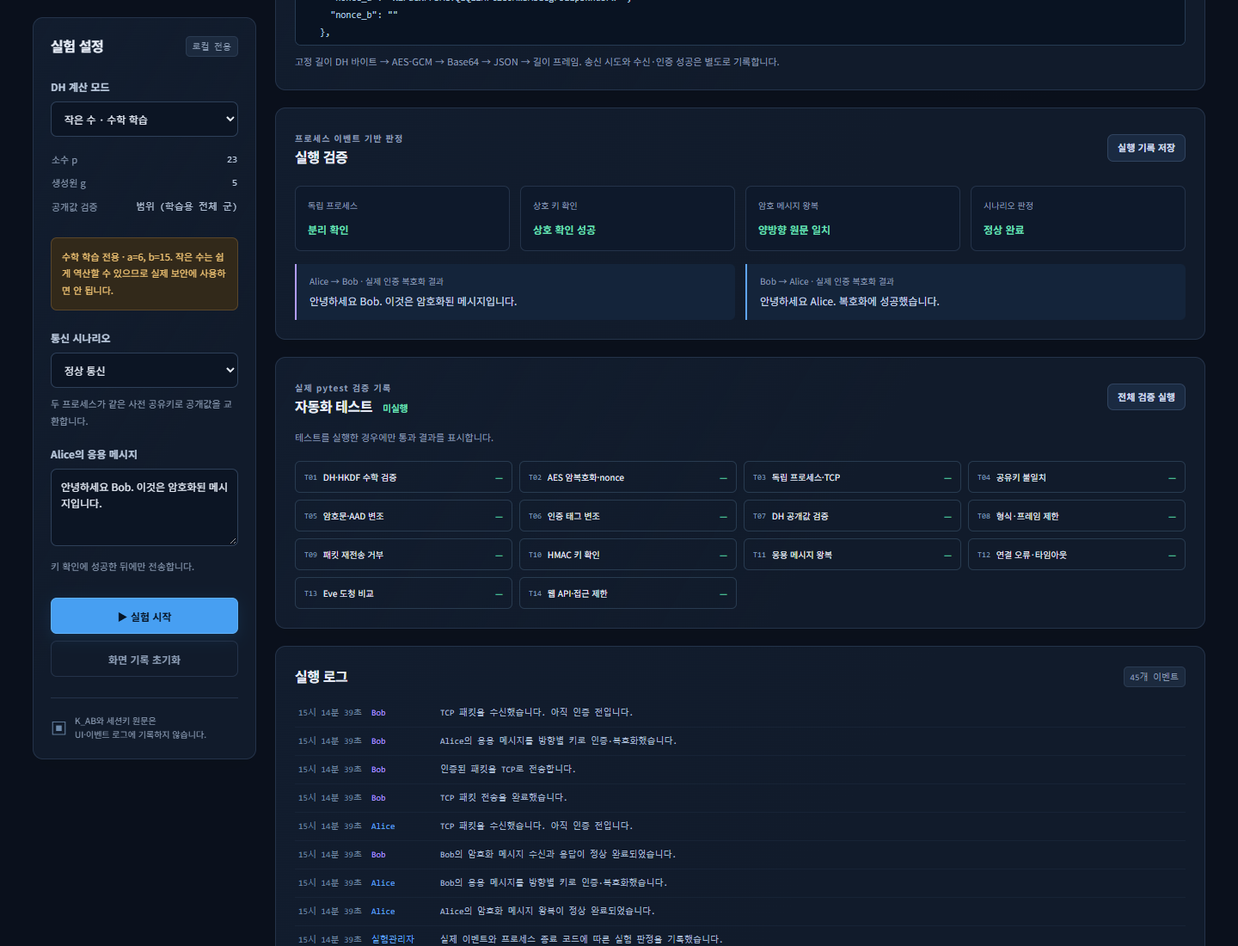
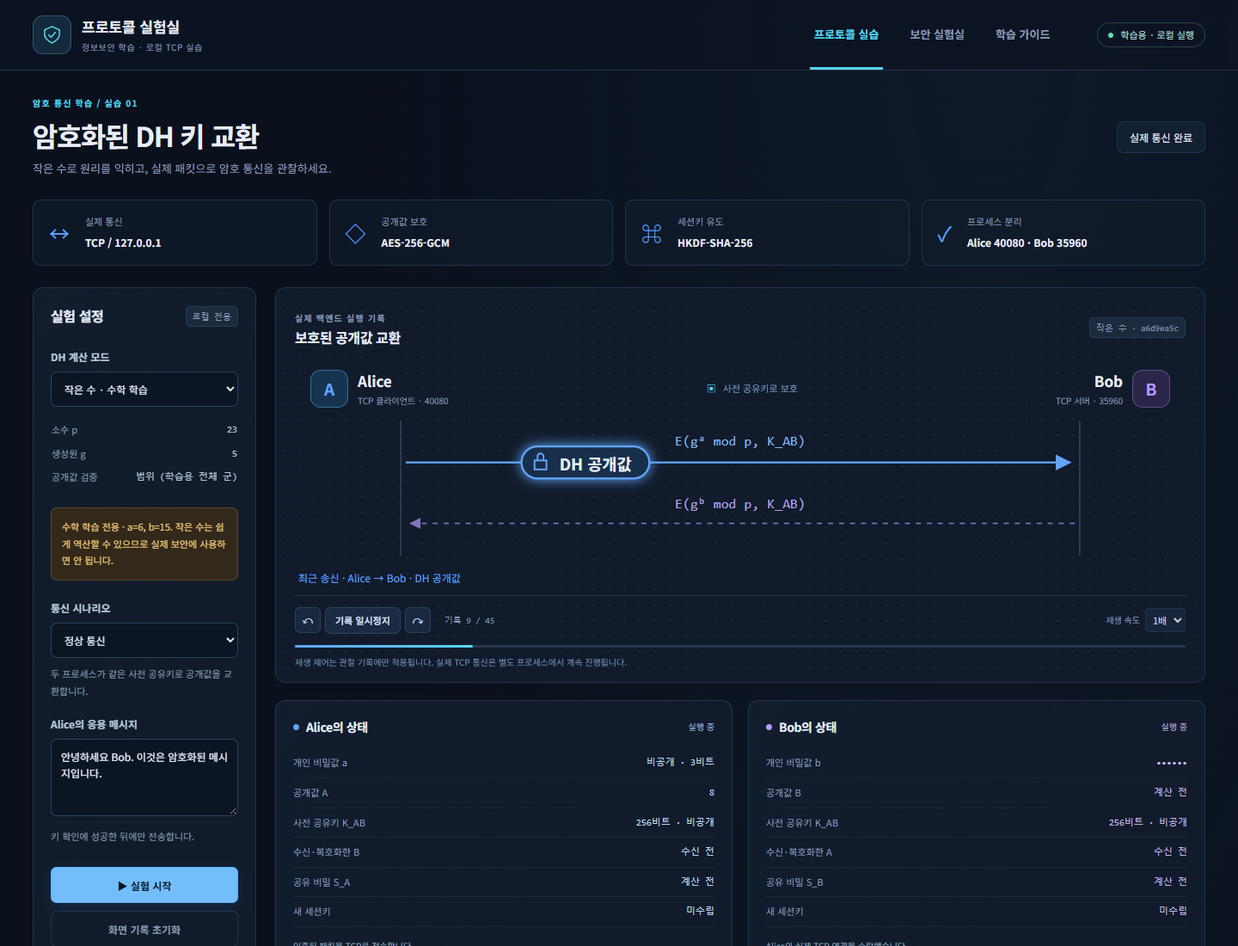
Improve packet replay animation and refresh previews

diff --git a/web/style.css b/web/style.css
@@ -1,7 +1,17 @@
 :root{color-scheme:dark;--bg:#0a101c;--panel:#111b2b;--panel2:#142034;--line:#24334a;--text:#e7edf7;--muted:#8c9db5;--cyan:#59d5ec;--blue:#60a5fa;--violet:#b29bff;--green:#68ddb1;--amber:#f6c875;--red:#ff8b9a;--mono:Consolas,'Cascadia Code',monospace}
-*{box-sizing:border-box}body{margin:0;background:radial-gradient(ellipse at 80% 0,#15263b66,transparent 45%),var(--bg);color:var(--text);font-family:Inter,'Pretendard','Noto Sans KR','Malgun Gothic',system-ui,sans-serif;font-size:14px;line-height:1.6}button,input,select,textarea{font:inherit}button,a,select{touch-action:manipulation}button{cursor:pointer}button:disabled{opacity:.45;cursor:wait}button:focus-visible,a:focus-visible,select:focus-visible,textarea:focus-visible{outline:2px solid var(--cyan);outline-offset:4px}a{color:var(--cyan);text-decoration:none}h1,h2,h3,p{margin:0}h2{font-size:16px;letter-spacing:-.4px}h3{font-size:18px;letter-spacing:-.5px}small{font-size:11px}svg{display:block}.hidden{display:none!important}.site-header{min-height:82px;padding:0 38px;display:flex;align-items:center;gap:28px;border-bottom:1px solid var(--line);background:#0b1322cc}.brand{display:flex;align-items:center;gap:12px;line-height:1.35;font-weight:700;color:var(--text);font-size:17px;white-space:nowrap}.brand small{display:block;margin-top:5px;color:var(--muted);font-weight:400;font-size:10px;letter-spacing:.6px}.brand-icon{padding:10px;border:1px solid #2f5771;border-radius:12px;background:#122a3c}.brand-icon svg{width:23px;fill:none;stroke:var(--cyan);stroke-width:1.6;stroke-linecap:round;stroke-linejoin:round}.tabs{display:flex;align-self:stretch;gap:26px;margin-left:auto}.tab{position:relative;background:none;border:0;color:var(--muted);font-weight:600;padding:0 5px;font-size:13px}.tab.active{color:var(--cyan)}.tab.active:after{content:'';position:absolute;bottom:0;height:3px;background:var(--cyan);left:0;right:0}.local-badge{display:flex;gap:8px;align-items:center;margin-left:22px;border:1px solid #29443d;color:#a5d8c5;border-radius:20px;padding:5px 12px;font-size:11px;white-space:nowrap}.dot{width:6px;height:6px;display:inline-block;border-radius:50%;background:var(--green);box-shadow:0 0 8px #68ddb133}.page{max-width:1640px;margin:auto;padding:30px 38px 0}.page-heading{display:flex;justify-content:space-between;align-items:center;gap:20px;margin-bottom:25px}.eyebrow{color:var(--muted);font-size:10px;letter-spacing:1.2px;font-weight:600}.page-heading .eyebrow{color:var(--cyan);margin-bottom:7px}h1{font-size:clamp(23px,2.2vw,32px);letter-spacing:-1.2px;font-weight:700;line-height:1.4}.page-heading p{color:var(--muted);margin-top:7px;font-size:13px}.execution-badge{padding:8px 14px;border:1px solid var(--line);border-radius:8px;font-size:12px;white-space:nowrap;background:#122032}.execution-badge .dot{margin-right:8px}.execution-badge.error{color:var(--red)}.facts{display:grid;grid-template-columns:repeat(4,1fr);gap:14px;margin-bottom:25px}.facts>div{display:flex;align-items:center;gap:13px;padding:16px 18px;background:#111c2b99;border:1px solid var(--line);border-radius:10px}.facts small{display:block;color:var(--muted);margin-bottom:3px}.facts strong{font-size:12px;font-weight:600}.fact-icon{color:var(--blue);font-size:24px;line-height:1;padding-right:5px}.lab-layout{display:grid;grid-template-columns:260px minmax(0,1fr);gap:22px;align-items:start}.panel{border:1px solid var(--line);border-radius:12px;background:linear-gradient(120deg,#13203455,transparent 60%),var(--panel);padding:22px;min-width:0;box-shadow:0 10px 30px #0000000a}.panel-title{display:flex;justify-content:space-between;align-items:center;gap:10px;margin-bottom:20px}.panel-title>div .eyebrow{margin-bottom:4px}.small-tag{font:10px var(--mono);color:var(--muted);background:#1c2a3e;border:1px solid #2a3b52;padding:4px 7px;border-radius:5px;white-space:nowrap}.settings{position:sticky;top:20px;padding:20px}.settings .panel-title{margin-bottom:24px}.settings label{display:block;font-size:12px;font-weight:600;color:#b9c8dc;margin-bottom:8px}.settings select,.settings textarea{width:100%;background:#0c1524;border:1px solid #2e4059;border-radius:7px;padding:10px 11px;color:var(--text);font-size:12px;line-height:1.6}.settings select{padding-right:20px}.settings textarea{resize:vertical;min-height:90px}.parameters{padding:13px 1px 7px}.parameters>div{display:flex;justify-content:space-between;gap:8px;font-size:11px;padding:5px 0}.parameters span{color:var(--muted)}.parameters strong{font-weight:500;font-family:var(--mono);color:#b4c3d8}.notice{font-size:11px;line-height:1.8;color:#a9c5de;background:#10283a;border:1px solid #25465d;border-radius:7px;padding:12px;margin:14px 0 22px}.notice.warning{color:var(--amber);background:#32291a;border-color:#5a4629}.notice.error{color:var(--red);background:#321d2a;border-color:#643546}.input-help{color:var(--muted);font-size:11px;line-height:1.8;margin-top:9px;margin-bottom:18px}.button{display:inline-flex;justify-content:center;align-items:center;gap:7px;border:1px solid #30435f;border-radius:7px;color:#cedaec;background:#1a2a41;padding:10px 15px;font-weight:600;font-size:12px;transition:background .18s,transform .18s}.button:hover:not(:disabled){background:#253b56}.button.primary{background:#479ff2;border-color:#5fb1f8;color:#061425;box-shadow:0 4px 18px #2296ec23}.button.primary:hover:not(:disabled){background:#73bdfb;transform:translateY(-1px)}.settings .button{width:100%;margin-top:8px;min-height:42px}.button.subtle{background:transparent;color:var(--muted);border-color:var(--line)}.button.compact{font-size:11px;padding:6px 11px;min-height:30px}.settings-footer{display:flex;align-items:center;gap:9px;color:var(--muted);border-top:1px solid var(--line);margin-top:24px;padding-top:18px;font-size:10px}.mini-lock{font-size:19px;color:#6d8aab}.workspace{min-width:0}.workspace>.panel,.tab-content>.panel{margin-bottom:20px}.network-panel{padding-bottom:15px;background-image:radial-gradient(#24354d66 1px,transparent 1px);background-size:18px 18px}.network-panel .panel-title{margin-bottom:24px}.network-endpoints{display:flex;align-items:center;justify-content:space-between;gap:12px;padding:0 18px}.endpoint{display:flex;align-items:center;gap:11px}.avatar{display:flex;justify-content:center;align-items:center;width:44px;height:44px;border-radius:12px;border:1px solid #386b96;background:#163450;color:var(--blue);font-weight:700;font-size:19px}.bob .avatar{color:var(--violet);background:#2b2649;border-color:#594b85}.endpoint strong{display:block;font-size:17px}.endpoint small{display:block;color:var(--muted);font-size:10px;margin-top:2px}.endpoint.bob{text-align:right}.network-security{font-size:11px;color:#7f9bb8}.network-security span{margin-right:5px;color:var(--cyan)}.network-svg{width:100%;height:auto;max-height:180px;overflow:visible;margin-top:8px}.route{stroke-width:1.4;stroke-dasharray:5 6;fill:none;opacity:.7}.route-a{stroke:var(--blue)}.route-b{stroke:var(--violet)}.network-spine{stroke:#39506c;stroke-width:1;fill:none}.arrow-a{fill:var(--blue)}.arrow-b{fill:var(--violet)}.formula{font-family:var(--mono);font-size:14px}.formula-a{fill:#87b8f3}.formula-b{fill:#b4a6eb}#packet-animation rect{fill:#153c59;stroke:var(--cyan);stroke-width:1.3;filter:drop-shadow(0 0 5px #32b6ef55)}#packet-animation path{stroke:var(--cyan);stroke-width:1.3;fill:none}.eve-strip{display:flex;gap:10px;align-items:center;color:var(--amber);font-size:11px;border:1px solid #655032;border-radius:6px;background:#30291d;padding:9px 12px;margin:5px 0 15px}.eve-strip span{color:#cbb18b;margin-left:auto}.playback{display:flex;align-items:center;gap:16px;border-top:1px solid var(--line);padding-top:13px;margin-top:7px}.playback-buttons{display:flex;gap:5px}.icon-button{width:30px;height:30px;background:#19283e;border:1px solid #2f4058;border-radius:6px;color:#bdcbe0;font-size:17px}.playback>span{font:10px var(--mono);color:var(--muted)}.speed-label{margin-left:auto;font-size:10px;color:var(--muted);display:flex;gap:6px;align-items:center}.speed-label select{border:1px solid var(--line);background:#17243a;color:#c7d4e7;border-radius:4px;font-size:11px;padding:4px}progress{appearance:none;width:100%;height:3px;border:0;display:block;margin-top:13px;border-radius:5px;background:#26364d}progress::-webkit-progress-bar{background:#26364d;border-radius:5px}progress::-webkit-progress-value{background:linear-gradient(90deg,var(--blue),var(--cyan));border-radius:5px}progress::-moz-progress-bar{background:var(--cyan)}.playback-note{margin-top:9px;font-size:10px;color:#7a8ea8}.peer-grid{display:grid;grid-template-columns:1fr 1fr;gap:18px}.peer{padding:19px 20px}.peer h2{display:flex;align-items:center;gap:8px;font-size:14px}.peer-dot{width:7px;height:7px;border-radius:50%;background:var(--blue)}.bob .peer-dot{background:var(--violet)}.peer .panel-title{margin-bottom:14px}.peer-status{font-size:10px;color:#9ab7d9}.bob .peer-status{color:#b4a8db}.peer dl{margin:0;font-size:11px}.peer dl>div{display:grid;grid-template-columns:125px minmax(0,1fr);gap:8px;padding:8px 0;border-bottom:1px solid #23314877}.peer dt{color:var(--muted)}.peer dd{margin:0;font-family:var(--mono);text-align:right;overflow:hidden;text-overflow:ellipsis;white-space:nowrap;color:#bfd9f7}.bob dd{color:#c3b8ec}.peer-operation{margin-top:14px;font-size:10px;color:#91a5be;min-height:32px}.disclosure-row{display:flex;gap:10px;justify-content:space-between;padding:9px 1px 20px;font-size:10px;color:var(--muted)}.text-button{border:0;background:none;color:var(--cyan);font-size:10px;padding:0}.stages{display:grid;grid-template-columns:repeat(6,1fr);gap:7px;margin-bottom:20px}.stage-button{border:1px solid #2c3e56;background:#152237;border-radius:7px;color:#8fa3be;font-size:10px;padding:9px 4px;line-height:1.5}.stage-button span{display:block;margin-bottom:3px;font:10px var(--mono);color:#6e8aa9}.stage-button.active{background:#19314b;border-color:#458fc3;color:var(--cyan)}.stage-button.done span{color:var(--green)}.explanation{display:grid;grid-template-columns:1fr 1fr;gap:25px;align-items:center}.explanation h3{font-size:16px;margin:6px 0 8px}.explanation p{font-size:11px;color:#a6b6ca}.explanation .security-note{font-size:10px;margin-top:9px;color:#7f9bb8}.formula-box{display:flex;flex-direction:column;gap:12px;background:#0b1525;border:1px solid #273b55;border-radius:8px;padding:22px}.formula-box code{color:#7bcdf9;font-size:15px;line-height:1.6;overflow-wrap:anywhere;font-family:var(--mono)}.formula-box span{color:var(--muted);font-size:10px;word-break:break-word}.packet-panel .panel-title>div{display:flex;align-items:center;gap:8px}.packet-list{display:flex;gap:7px;flex-wrap:wrap;margin-bottom:12px}.packet-chip{background:#19283d;border:1px solid #2f4058;color:#a6bad3;border-radius:5px;font-size:10px;padding:5px 9px}.packet-chip.active{border-color:#519fcc;color:var(--cyan)}pre{font:11px/1.8 var(--mono);margin:0;padding:16px;border:1px solid #263b53;border-radius:7px;background:#091322;color:#a7c5df;overflow:auto;max-height:260px;white-space:pre-wrap;overflow-wrap:anywhere;tab-size:2}.packet-panel .input-help{margin-bottom:0}.result-grid{display:grid;grid-template-columns:repeat(4,1fr);gap:12px}.result-grid>div{padding:14px;border:1px solid var(--line);border-radius:7px;background:#0e192b}.result-grid span{display:block;color:var(--muted);font-size:10px;margin-bottom:8px}.result-grid strong{font-size:12px;font-weight:600}.good{color:var(--green)!important}.bad{color:var(--red)!important}.warn{color:var(--amber)!important}.chat-results{display:grid;grid-template-columns:1fr 1fr;gap:12px;margin-top:15px}.chat-message{border-left:2px solid var(--blue);background:#14243a;padding:12px 15px;border-radius:0 6px 6px 0;overflow-wrap:anywhere}.chat-message.bob{border-color:var(--violet)}.chat-message small{display:block;font-size:10px;color:var(--muted);margin-bottom:5px}.chat-message p{font-size:12px;color:#c8d8eb}.test-total{color:var(--green);font-size:11px;margin-left:8px}.test-grid{display:grid;grid-template-columns:repeat(4,1fr);gap:8px}.test-item{padding:10px;border:1px solid #283b50;border-radius:6px;font-size:10px;display:flex;gap:7px;align-items:center;line-height:1.5}.test-item span{font:9px var(--mono);color:#7f98b6}.test-item i{font-style:normal;margin-left:auto;color:var(--green)}.event-log{max-height:290px;overflow:auto;font-size:10px;font-family:var(--mono);scrollbar-width:thin}.log-entry{display:grid;grid-template-columns:75px 70px 1fr;gap:10px;padding:8px 4px;border-bottom:1px solid #23324b55;align-items:baseline}.log-entry time{color:#7188a3}.log-entry strong{color:var(--blue);font-weight:400}.log-entry.bob strong{color:var(--violet)}.log-entry.eve strong{color:var(--amber)}.log-entry p{color:#a8bbd2;overflow-wrap:anywhere}.log-entry.error p{color:var(--red)}.section-intro{padding:8px 0 23px}.section-intro h2{font-size:25px;margin:8px 0}.section-intro p{font-size:12px;color:var(--muted);max-width:750px}.attack-grid{display:grid;grid-template-columns:repeat(3,1fr);gap:16px;margin-bottom:20px}.attack-card{padding:20px;border:1px solid var(--line);border-radius:10px;background:#122034;display:flex;flex-direction:column}.attack-card .attack-number{font:11px var(--mono);color:var(--cyan);margin-bottom:13px}.attack-card h3{font-size:14px;margin-bottom:9px}.attack-card p{color:#92a7c1;font-size:11px;margin-bottom:17px;flex:1}.attack-card .button{align-self:flex-start}.guide-grid{display:grid;grid-template-columns:1fr 1fr;gap:16px}.guide-card{padding:25px}.guide-number{color:var(--cyan);font:12px var(--mono)}.guide-card h3{margin:13px 0;font-size:16px}.guide-card p{color:#9cb0c8;font-size:12px;line-height:1.9}.guide-card code{display:block;margin-top:18px;font-family:var(--mono);font-size:11px;color:#9bc9ec}.sources{font-size:11px;color:var(--muted);margin:20px 0 25px}footer{padding:30px 0;text-align:center;color:#6e829d;font-size:10px}#error{margin-bottom:20px}.tests-panel .input-help{margin-top:-7px}.result-grid+.notice{margin-bottom:0}
+*{box-sizing:border-box}body{margin:0;background:radial-gradient(ellipse at 80% 0,#15263b66,transparent 45%),var(--bg);color:var(--text);font-family:Inter,'Pretendard','Noto Sans KR','Malgun Gothic',system-ui,sans-serif;font-size:14px;line-height:1.6}button,input,select,textarea{font:inherit}button,a,select{touch-action:manipulation}button{cursor:pointer}button:disabled{opacity:.45;cursor:wait}button:focus-visible,a:focus-visible,select:focus-visible,textarea:focus-visible{outline:2px solid var(--cyan);outline-offset:4px}a{color:var(--cyan);text-decoration:none}h1,h2,h3,p{margin:0}h2{font-size:16px;letter-spacing:-.4px}h3{font-size:18px;letter-spacing:-.5px}small{font-size:11px}svg{display:block}.hidden{display:none!important}.site-header{min-height:82px;padding:0 38px;display:flex;align-items:center;gap:28px;border-bottom:1px solid var(--line);background:#0b1322cc}.brand{display:flex;align-items:center;gap:12px;line-height:1.35;font-weight:700;color:var(--text);font-size:17px;white-space:nowrap}.brand small{display:block;margin-top:5px;color:var(--muted);font-weight:400;font-size:10px;letter-spacing:.6px}.brand-icon{padding:10px;border:1px solid #2f5771;border-radius:12px;background:#122a3c}.brand-icon svg{width:23px;fill:none;stroke:var(--cyan);stroke-width:1.6;stroke-linecap:round;stroke-linejoin:round}.tabs{display:flex;align-self:stretch;gap:26px;margin-left:auto}.tab{position:relative;background:none;border:0;color:var(--muted);font-weight:600;padding:0 5px;font-size:13px}.tab.active{color:var(--cyan)}.tab.active:after{content:'';position:absolute;bottom:0;height:3px;background:var(--cyan);left:0;right:0}.local-badge{display:flex;gap:8px;align-items:center;margin-left:22px;border:1px solid #29443d;color:#a5d8c5;border-radius:20px;padding:5px 12px;font-size:11px;white-space:nowrap}.dot{width:6px;height:6px;display:inline-block;border-radius:50%;background:var(--green);box-shadow:0 0 8px #68ddb133}.page{max-width:1640px;margin:auto;padding:30px 38px 0}.page-heading{display:flex;justify-content:space-between;align-items:center;gap:20px;margin-bottom:25px}.eyebrow{color:var(--muted);font-size:10px;letter-spacing:1.2px;font-weight:600}.page-heading .eyebrow{color:var(--cyan);margin-bottom:7px}h1{font-size:clamp(23px,2.2vw,32px);letter-spacing:-1.2px;font-weight:700;line-height:1.4}.page-heading p{color:var(--muted);margin-top:7px;font-size:13px}.execution-badge{padding:8px 14px;border:1px solid var(--line);border-radius:8px;font-size:12px;white-space:nowrap;background:#122032}.execution-badge .dot{margin-right:8px}.execution-badge.error{color:var(--red)}.facts{display:grid;grid-template-columns:repeat(4,1fr);gap:14px;margin-bottom:25px}.facts>div{display:flex;align-items:center;gap:13px;padding:16px 18px;background:#111c2b99;border:1px solid var(--line);border-radius:10px}.facts small{display:block;color:var(--muted);margin-bottom:3px}.facts strong{font-size:12px;font-weight:600}.fact-icon{color:var(--blue);font-size:24px;line-height:1;padding-right:5px}.lab-layout{display:grid;grid-template-columns:260px minmax(0,1fr);gap:22px;align-items:start}.panel{border:1px solid var(--line);border-radius:12px;background:linear-gradient(120deg,#13203455,transparent 60%),var(--panel);padding:22px;min-width:0;box-shadow:0 10px 30px #0000000a}.panel-title{display:flex;justify-content:space-between;align-items:center;gap:10px;margin-bottom:20px}.panel-title>div .eyebrow{margin-bottom:4px}.small-tag{font:10px var(--mono);color:var(--muted);background:#1c2a3e;border:1px solid #2a3b52;padding:4px 7px;border-radius:5px;white-space:nowrap}.settings{position:sticky;top:20px;padding:20px}.settings .panel-title{margin-bottom:24px}.settings label{display:block;font-size:12px;font-weight:600;color:#b9c8dc;margin-bottom:8px}.settings select,.settings textarea{width:100%;background:#0c1524;border:1px solid #2e4059;border-radius:7px;padding:10px 11px;color:var(--text);font-size:12px;line-height:1.6}.settings select{padding-right:20px}.settings textarea{resize:vertical;min-height:90px}.parameters{padding:13px 1px 7px}.parameters>div{display:flex;justify-content:space-between;gap:8px;font-size:11px;padding:5px 0}.parameters span{color:var(--muted)}.parameters strong{font-weight:500;font-family:var(--mono);color:#b4c3d8}.notice{font-size:11px;line-height:1.8;color:#a9c5de;background:#10283a;border:1px solid #25465d;border-radius:7px;padding:12px;margin:14px 0 22px}.notice.warning{color:var(--amber);background:#32291a;border-color:#5a4629}.notice.error{color:var(--red);background:#321d2a;border-color:#643546}.input-help{color:var(--muted);font-size:11px;line-height:1.8;margin-top:9px;margin-bottom:18px}.button{display:inline-flex;justify-content:center;align-items:center;gap:7px;border:1px solid #30435f;border-radius:7px;color:#cedaec;background:#1a2a41;padding:10px 15px;font-weight:600;font-size:12px;transition:background .18s,transform .18s}.button:hover:not(:disabled){background:#253b56}.button.primary{background:#479ff2;border-color:#5fb1f8;color:#061425;box-shadow:0 4px 18px #2296ec23}.button.primary:hover:not(:disabled){background:#73bdfb;transform:translateY(-1px)}.settings .button{width:100%;margin-top:8px;min-height:42px}.button.subtle{background:transparent;color:var(--muted);border-color:var(--line)}.button.compact{font-size:11px;padding:6px 11px;min-height:30px}.settings-footer{display:flex;align-items:center;gap:9px;color:var(--muted);border-top:1px solid var(--line);margin-top:24px;padding-top:18px;font-size:10px}.mini-lock{font-size:19px;color:#6d8aab}.workspace{min-width:0}.workspace>.panel,.tab-content>.panel{margin-bottom:20px}.network-panel{padding-bottom:15px;background-image:radial-gradient(#24354d66 1px,transparent 1px);background-size:18px 18px}.network-panel .panel-title{margin-bottom:24px}.network-endpoints{display:flex;align-items:center;justify-content:space-between;gap:12px;padding:0 18px}.endpoint{display:flex;align-items:center;gap:11px}.avatar{display:flex;justify-content:center;align-items:center;width:44px;height:44px;border-radius:12px;border:1px solid #386b96;background:#163450;color:var(--blue);font-weight:700;font-size:19px}.bob .avatar{color:var(--violet);background:#2b2649;border-color:#594b85}.endpoint strong{display:block;font-size:17px}.endpoint small{display:block;color:var(--muted);font-size:10px;margin-top:2px}.endpoint.bob{text-align:right}.network-security{font-size:11px;color:#7f9bb8}.network-security span{margin-right:5px;color:var(--cyan)}.network-svg{width:100%;height:auto;max-height:180px;overflow:visible;margin-top:8px}.route{stroke-width:1.4;stroke-dasharray:5 6;fill:none;opacity:.7}.route-a{stroke:var(--blue)}.route-b{stroke:var(--violet)}.network-spine{stroke:#39506c;stroke-width:1;fill:none}.arrow-a{fill:var(--blue)}.arrow-b{fill:var(--violet)}.formula{font-family:var(--mono);font-size:14px}.formula-a{fill:#87b8f3}.formula-b{fill:#b4a6eb}.eve-strip{display:flex;gap:10px;align-items:center;color:var(--amber);font-size:11px;border:1px solid #655032;border-radius:6px;background:#30291d;padding:9px 12px;margin:5px 0 15px}.eve-strip span{color:#cbb18b;margin-left:auto}.playback{display:flex;align-items:center;gap:16px;border-top:1px solid var(--line);padding-top:13px;margin-top:7px}.playback-buttons{display:flex;gap:5px}.icon-button{width:30px;height:30px;background:#19283e;border:1px solid #2f4058;border-radius:6px;color:#bdcbe0;font-size:17px}.playback>span{font:10px var(--mono);color:var(--muted)}.speed-label{margin-left:auto;font-size:10px;color:var(--muted);display:flex;gap:6px;align-items:center}.speed-label select{border:1px solid var(--line);background:#17243a;color:#c7d4e7;border-radius:4px;font-size:11px;padding:4px}progress{appearance:none;width:100%;height:3px;border:0;display:block;margin-top:13px;border-radius:5px;background:#26364d}progress::-webkit-progress-bar{background:#26364d;border-radius:5px}progress::-webkit-progress-value{background:linear-gradient(90deg,var(--blue),var(--cyan));border-radius:5px}progress::-moz-progress-bar{background:var(--cyan)}.playback-note{margin-top:9px;font-size:10px;color:#7a8ea8}.peer-grid{display:grid;grid-template-columns:1fr 1fr;gap:18px}.peer{padding:19px 20px}.peer h2{display:flex;align-items:center;gap:8px;font-size:14px}.peer-dot{width:7px;height:7px;border-radius:50%;background:var(--blue)}.bob .peer-dot{background:var(--violet)}.peer .panel-title{margin-bottom:14px}.peer-status{font-size:10px;color:#9ab7d9}.bob .peer-status{color:#b4a8db}.peer dl{margin:0;font-size:11px}.peer dl>div{display:grid;grid-template-columns:125px minmax(0,1fr);gap:8px;padding:8px 0;border-bottom:1px solid #23314877}.peer dt{color:var(--muted)}.peer dd{margin:0;font-family:var(--mono);text-align:right;overflow:hidden;text-overflow:ellipsis;white-space:nowrap;color:#bfd9f7}.bob dd{color:#c3b8ec}.peer-operation{margin-top:14px;font-size:10px;color:#91a5be;min-height:32px}.disclosure-row{display:flex;gap:10px;justify-content:space-between;padding:9px 1px 20px;font-size:10px;color:var(--muted)}.text-button{border:0;background:none;color:var(--cyan);font-size:10px;padding:0}.stages{display:grid;grid-template-columns:repeat(6,1fr);gap:7px;margin-bottom:20px}.stage-button{border:1px solid #2c3e56;background:#152237;border-radius:7px;color:#8fa3be;font-size:10px;padding:9px 4px;line-height:1.5}.stage-button span{display:block;margin-bottom:3px;font:10px var(--mono);color:#6e8aa9}.stage-button.active{background:#19314b;border-color:#458fc3;color:var(--cyan)}.stage-button.done span{color:var(--green)}.explanation{display:grid;grid-template-columns:1fr 1fr;gap:25px;align-items:center}.explanation h3{font-size:16px;margin:6px 0 8px}.explanation p{font-size:11px;color:#a6b6ca}.explanation .security-note{font-size:10px;margin-top:9px;color:#7f9bb8}.formula-box{display:flex;flex-direction:column;gap:12px;background:#0b1525;border:1px solid #273b55;border-radius:8px;padding:22px}.formula-box code{color:#7bcdf9;font-size:15px;line-height:1.6;overflow-wrap:anywhere;font-family:var(--mono)}.formula-box span{color:var(--muted);font-size:10px;word-break:break-word}.packet-panel .panel-title>div{display:flex;align-items:center;gap:8px}.packet-list{display:flex;gap:7px;flex-wrap:wrap;margin-bottom:12px}.packet-chip{background:#19283d;border:1px solid #2f4058;color:#a6bad3;border-radius:5px;font-size:10px;padding:5px 9px}.packet-chip.active{border-color:#519fcc;color:var(--cyan)}pre{font:11px/1.8 var(--mono);margin:0;padding:16px;border:1px solid #263b53;border-radius:7px;background:#091322;color:#a7c5df;overflow:auto;max-height:260px;white-space:pre-wrap;overflow-wrap:anywhere;tab-size:2}.packet-panel .input-help{margin-bottom:0}.result-grid{display:grid;grid-template-columns:repeat(4,1fr);gap:12px}.result-grid>div{padding:14px;border:1px solid var(--line);border-radius:7px;background:#0e192b}.result-grid span{display:block;color:var(--muted);font-size:10px;margin-bottom:8px}.result-grid strong{font-size:12px;font-weight:600}.good{color:var(--green)!important}.bad{color:var(--red)!important}.warn{color:var(--amber)!important}.chat-results{display:grid;grid-template-columns:1fr 1fr;gap:12px;margin-top:15px}.chat-message{border-left:2px solid var(--blue);background:#14243a;padding:12px 15px;border-radius:0 6px 6px 0;overflow-wrap:anywhere}.chat-message.bob{border-color:var(--violet)}.chat-message small{display:block;font-size:10px;color:var(--muted);margin-bottom:5px}.chat-message p{font-size:12px;color:#c8d8eb}.test-total{color:var(--green);font-size:11px;margin-left:8px}.test-grid{display:grid;grid-template-columns:repeat(4,1fr);gap:8px}.test-item{padding:10px;border:1px solid #283b50;border-radius:6px;font-size:10px;display:flex;gap:7px;align-items:center;line-height:1.5}.test-item span{font:9px var(--mono);color:#7f98b6}.test-item i{font-style:normal;margin-left:auto;color:var(--green)}.event-log{max-height:290px;overflow:auto;font-size:10px;font-family:var(--mono);scrollbar-width:thin}.log-entry{display:grid;grid-template-columns:75px 70px 1fr;gap:10px;padding:8px 4px;border-bottom:1px solid #23324b55;align-items:baseline}.log-entry time{color:#7188a3}.log-entry strong{color:var(--blue);font-weight:400}.log-entry.bob strong{color:var(--violet)}.log-entry.eve strong{color:var(--amber)}.log-entry p{color:#a8bbd2;overflow-wrap:anywhere}.log-entry.error p{color:var(--red)}.section-intro{padding:8px 0 23px}.section-intro h2{font-size:25px;margin:8px 0}.section-intro p{font-size:12px;color:var(--muted);max-width:750px}.attack-grid{display:grid;grid-template-columns:repeat(3,1fr);gap:16px;margin-bottom:20px}.attack-card{padding:20px;border:1px solid var(--line);border-radius:10px;background:#122034;display:flex;flex-direction:column}.attack-card .attack-number{font:11px var(--mono);color:var(--cyan);margin-bottom:13px}.attack-card h3{font-size:14px;margin-bottom:9px}.attack-card p{color:#92a7c1;font-size:11px;margin-bottom:17px;flex:1}.attack-card .button{align-self:flex-start}.guide-grid{display:grid;grid-template-columns:1fr 1fr;gap:16px}.guide-card{padding:25px}.guide-number{color:var(--cyan);font:12px var(--mono)}.guide-card h3{margin:13px 0;font-size:16px}.guide-card p{color:#9cb0c8;font-size:12px;line-height:1.9}.guide-card code{display:block;margin-top:18px;font-family:var(--mono);font-size:11px;color:#9bc9ec}.sources{font-size:11px;color:var(--muted);margin:20px 0 25px}footer{padding:30px 0;text-align:center;color:#6e829d;font-size:10px}#error{margin-bottom:20px}.tests-panel .input-help{margin-top:-7px}.result-grid+.notice{margin-bottom:0}
 @media(min-width:1500px){.network-svg{max-height:205px}.panel{padding:25px}.settings{padding:22px}.peer dl>div{padding:10px 0}}
 @media(max-width:1150px){.page{padding:25px 22px 0}.site-header{padding:0 22px;gap:15px}.tabs{gap:15px}.local-badge{margin-left:8px}.lab-layout{grid-template-columns:235px minmax(0,1fr);gap:16px}.panel{padding:18px}.peer dl>div{grid-template-columns:105px minmax(0,1fr)}.attack-grid{grid-template-columns:1fr 1fr}.test-grid{grid-template-columns:repeat(3,1fr)}.result-grid{grid-template-columns:1fr 1fr}.network-endpoints{padding:0}.network-security{font-size:10px}.explanation{gap:14px}.stages{gap:4px}.stage-button{font-size:9px}}
 @media(max-width:850px){.site-header{flex-wrap:wrap;padding-top:15px;gap:10px}.tabs{order:3;width:100%;min-height:46px;gap:25px;margin:4px 0 0}.local-badge{margin-left:auto}.page-heading{align-items:flex-start}.execution-badge{font-size:10px}.facts{grid-template-columns:1fr 1fr;gap:9px;margin-bottom:18px}.facts>div{padding:11px 13px}.lab-layout{grid-template-columns:1fr}.settings{position:static;display:grid;grid-template-columns:1fr 1fr;column-gap:20px}.settings .panel-title,.settings .parameters,.settings .notice,.settings .input-help,.settings label,.settings select,.settings textarea{grid-column:1/-1}.settings .parameters{display:flex;gap:25px;flex-wrap:wrap}.parameters>div{gap:15px}.settings-footer{grid-column:1/-1;margin-top:15px}.settings textarea{min-height:65px}.settings .notice{margin-bottom:18px}.settings label{margin-top:5px}.network-svg{max-height:155px}.settings .input-help{margin-bottom:10px}.workspace{width:100%}.explanation{gap:25px}}
 @media(max-width:520px){.page{padding:22px 14px 0}.site-header{padding:14px 16px 0}.brand{font-size:15px}.brand small{font-size:9px}.brand-icon{padding:8px}.tabs{gap:20px;justify-content:space-between}.tab{font-size:12px}.local-badge{font-size:10px;padding:4px 8px}.page-heading{display:block}.page-heading h1{font-size:25px}.page-heading p{font-size:11px}.execution-badge{display:inline-block;margin-top:14px}.facts{gap:7px}.facts>div{gap:7px;padding:10px}.fact-icon{font-size:20px}.facts strong{font-size:10px}.facts small{font-size:9px}.panel{padding:16px}.peer-grid,.explanation,.guide-grid,.chat-results{grid-template-columns:1fr;gap:14px}.peer dl>div{grid-template-columns:140px minmax(0,1fr)}.network-endpoints{gap:7px}.avatar{width:34px;height:34px;font-size:15px;border-radius:9px}.endpoint{gap:8px}.endpoint strong{font-size:15px}.endpoint small{font-size:9px}.network-security{display:none}.network-svg{margin-top:15px}.formula{font-size:16px}.playback{gap:8px;flex-wrap:wrap}.playback-buttons{gap:4px}.playback>span{font-size:9px}.speed-label{font-size:9px}.playback-note{font-size:9px}.stages{grid-template-columns:repeat(3,1fr);gap:6px}.stage-button{font-size:10px}.stages .stage-button span{display:inline;margin-right:5px}.explanation .formula-box{padding:15px}.disclosure-row{font-size:9px;align-items:center}.text-button{font-size:9px;white-space:nowrap}.panel-title h2{font-size:14px}.result-grid{gap:8px}.result-grid>div{padding:11px}.test-grid{grid-template-columns:1fr 1fr}.test-item{font-size:9px;padding:8px}.test-total{font-size:10px}.tests-panel .panel-title{flex-wrap:wrap}.attack-grid{grid-template-columns:1fr}.log-entry{grid-template-columns:60px 44px 1fr;gap:5px;font-size:9px}.eve-strip{flex-wrap:wrap;font-size:10px}.eve-strip span{margin-left:0;width:100%}.panel-title .small-tag{font-size:9px}footer{line-height:1.9;padding:25px 10px}}
+.network-svg[data-sender="alice"]{--packet-color:var(--blue);--packet-fill:#182f4b}
+.network-svg[data-sender="bob"]{--packet-color:var(--violet);--packet-fill:#2b2449}
+.network-svg[data-sender="alice"] .route-a,
+.network-svg[data-sender="bob"] .route-b{stroke:var(--packet-color);stroke-width:2;stroke-dasharray:none;opacity:1}
+#packet-animation rect{fill:var(--packet-fill);stroke:var(--packet-color);stroke-width:2;filter:drop-shadow(0 0 6px var(--packet-color))}
+#packet-animation path{fill:none;stroke:var(--packet-color);stroke-width:1.7;stroke-linecap:round;stroke-linejoin:round}
+#packet-animation text{fill:var(--text);font-size:16px;font-weight:700}
+.transfer-status{margin:0 0 10px;padding:0 4px;color:var(--muted);font-size:12px}
+.transfer-status[data-sender="alice"]{color:var(--blue)}
+.transfer-status[data-sender="bob"]{color:var(--violet)}
 @media(prefers-reduced-motion:reduce){*,*:before,*:after{transition:none!important;scroll-behavior:auto!important}}

diff --git a/web/app.js b/web/app.js
@@ -9,6 +9,7 @@ const make = (tag, cls, text) => {
 };
 const set = (id, value) => { $(id).textContent = value; };
 const shorten = value => String(value).length > 32 ? `${String(value).slice(0, 20)}…${String(value).slice(-8)}` : String(value);
+const packetTypes = { dh: 'DH 공개값', confirm: '키 확인', app: '응용 메시지' };
 const animation = new PacketAnimation(document.querySelector('.network-svg'));
 const descriptions = {
   normal: '두 프로세스가 같은 사전 공유키로 공개값을 교환합니다.',
@@ -108,9 +109,9 @@ $('clear').addEventListener('click', () => {
   set('process-fact','Alice · Bob 독립 실행'); set('run-label','실행 대기'); updateButtons();
 });
 $('previous').addEventListener('click', () => { playing = false; animation.stop(); cursor = Math.max(0, cursor - 1); renderRecords(); });
-$('next').addEventListener('click', () => { playing = false; advanceRecord(); });
+$('next').addEventListener('click', () => { playing = false; animation.stop(); advanceRecord(); });
 $('play').addEventListener('click', () => {
-  if (cursor === events.length && !state?.running && events.length) { cursor = 0; playing = true; }
+  if (cursor === events.length && !state?.running && events.length) { animation.stop(); cursor = 0; playing = true; }
   else playing = !playing;
   if (!playing) animation.stop(); renderRecords();
 });
@@ -120,7 +121,10 @@ $('reveal').addEventListener('click', () => {
 function advanceRecord() {
   if (cursor >= events.length) return;
   const event = events[cursor++];
-  if (event.event === 'sending') animation.transfer(event.actor, Number($('speed').value));
+  if (event.event === 'sending') {
+    const type = event.data.packet.header.type;
+    animation.transfer(event.actor, packetTypes[type], Number($('speed').value));
+  }
   if (!manualLesson) {
     const index = lessons.findIndex(item => item.event === event.event);
     if (index >= 0) lesson = Math.max(lesson, index);
@@ -168,11 +172,20 @@ function renderRecords() {
 }
 function renderPackets(visible) {
   const packets = visible.filter(e => e.event === 'sending' && ['Alice','Bob'].includes(e.actor));
+  const latest = packets.at(-1)?.data.packet.header;
+  const transferStatus = $('transfer-status');
+  if (latest) {
+    transferStatus.dataset.sender = latest.sender.toLowerCase();
+    transferStatus.textContent = `최근 송신 · ${latest.sender} → ${latest.sender === 'Alice' ? 'Bob' : 'Alice'} · ${packetTypes[latest.type]}`;
+  } else {
+    delete transferStatus.dataset.sender;
+    transferStatus.textContent = '패킷 송신 기록 대기';
+  }
   if (selectedPacket < 0 || selectedPacket >= packets.length) selectedPacket = packets.length - 1;
   const container = $('packet-list'); container.replaceChildren();
   packets.forEach((event,index) => {
     const head = event.data.packet.header;
-    const chip = make('button',`packet-chip${index === selectedPacket ? ' active' : ''}`,`${index + 1} · ${head.sender} · ${{dh:'DH 공개값',confirm:'키 확인',app:'응용 메시지'}[head.type]}`);
+    const chip = make('button',`packet-chip${index === selectedPacket ? ' active' : ''}`,`${index + 1} · ${head.sender} · ${packetTypes[head.type]}`);
     chip.addEventListener('click', () => { selectedPacket = index; renderPackets(visible); });
     container.append(chip);
   });

diff --git a/web/animation.js b/web/animation.js
@@ -1,29 +1,43 @@
 // 이 모듈은 전달받은 실제 송신 이벤트를 시각화할 뿐, 암호 연산이나 결과를 만들지 않는다.
 export class PacketAnimation {
   constructor(svg) {
+    this.svg = svg;
     this.packet = svg.querySelector('#packet-animation');
+    this.label = this.packet.querySelector('text');
     this.paths = { Alice: svg.querySelector('#route-a'), Bob: svg.querySelector('#route-b') };
+    this.motion = matchMedia('(prefers-reduced-motion: reduce)');
     this.frame = null;
   }
+
   stop() {
-    cancelAnimationFrame(this.frame);
+    if (this.frame !== null) cancelAnimationFrame(this.frame);
+    this.frame = null;
     this.packet.classList.add('hidden');
+    delete this.svg.dataset.sender;
   }
-  transfer(sender, speed = 1) {
+
+  transfer(sender, label, speed = 1) {
     this.stop();
-    if (matchMedia('(prefers-reduced-motion: reduce)').matches) return;
     const path = this.paths[sender];
     if (!path) return;
     const length = path.getTotalLength();
-    const start = performance.now();
-    const duration = 1000 / speed;
-    this.packet.classList.remove('hidden');
-    const draw = now => {
-      const progress = Math.min(1, (now - start) / duration);
+    const place = progress => {
       const point = path.getPointAtLength(length * progress);
       this.packet.setAttribute('transform', `translate(${point.x} ${point.y})`);
-      if (progress < 1) this.frame = requestAnimationFrame(draw);
-      else this.packet.classList.add('hidden');
+    };
+    this.svg.dataset.sender = sender.toLowerCase();
+    this.label.textContent = label;
+    place(this.motion.matches ? 0.5 : 0);
+    this.packet.classList.remove('hidden');
+    if (this.motion.matches) return;
+
+    let start;
+    const duration = 1000 / speed;
+    const draw = now => {
+      start ??= now;
+      const progress = Math.min(1, (now - start) / duration);
+      place(progress * progress * (3 - 2 * progress));
+      this.frame = progress < 1 ? requestAnimationFrame(draw) : null;
     };
     this.frame = requestAnimationFrame(draw);
   }

diff --git a/web/index.html b/web/index.html
@@ -68,8 +68,13 @@
               <path id="route-a" class="route route-a" d="M65 48H730" marker-end="url(#arrow-a)"/>
               <path id="route-b" class="route route-b" d="M735 109H70" marker-end="url(#arrow-b)"/>
               <text x="400" y="31" text-anchor="middle" class="formula formula-a">E(gᵃ mod p, K_AB)</text><text x="400" y="94" text-anchor="middle" class="formula formula-b">E(gᵇ mod p, K_AB)</text>
-              <g id="packet-animation" class="hidden"><rect x="-27" y="-14" width="54" height="28" rx="7"/><path d="M-7-3h14v10H-7Zm3 0v-4a4 4 0 0 1 8 0v4"/></g>
+              <g id="packet-animation" class="hidden" aria-hidden="true">
+                <rect x="-64" y="-16" width="128" height="32" rx="16"/>
+                <path transform="translate(-45 0)" d="M-6-2h12v9H-6Zm3 0v-4a3 3 0 0 1 6 0v4"/>
+                <text x="10" y="1" text-anchor="middle" dominant-baseline="central"></text>
+              </g>
             </svg>
+            <p class="transfer-status" id="transfer-status">패킷 송신 기록 대기</p>
             <div class="eve-strip hidden" id="eve-status">◉ <strong>Eve · 실제 TCP 중계기</strong><span id="eve-result">네트워크 관찰 대기</span></div>
             <div class="playback"><div class="playback-buttons"><button class="icon-button" id="previous" aria-label="이전 실행 기록">↶</button><button class="button compact" id="play">기록 일시정지</button><button class="icon-button" id="next" aria-label="다음 실행 기록">↷</button></div><span id="record-count">기록 0 / 0</span><label for="speed" class="speed-label">재생 속도 <select id="speed"><option value="1">1배</option><option value="2" selected>2배</option><option value="4">4배</option></select></label></div>
             <progress id="event-progress" max="1" value="0" aria-label="실행 기록 재생 진행률"></progress>

diff --git a/README.md b/README.md
@@ -1,6 +1,6 @@
 # Crypto DH Lab — 눈으로 배우는 암호 통신
 
-[Windows 다운로드 · v0.1.0](https://github.com/leekmny/crypto-dh-lab/releases/tag/v0.1.0) · [따라 하기](docs/LEARNING.md) · [MIT License](LICENSE)
+[Windows 다운로드 · v0.1.1](https://github.com/leekmny/crypto-dh-lab/releases/tag/v0.1.1) · [따라 하기](docs/LEARNING.md) · [MIT License](LICENSE)
 
 **Alice와 Bob은 비밀값을 보내지 않고 어떻게 같은 비밀을 만들까요?**
 
@@ -8,12 +8,18 @@
 
 Alice와 Bob은 **서로 다른 Python 프로세스**에서 암호 연산을 수행하고, **127.0.0.1 TCP**로 통신합니다. 웹 화면은 실제 실행 기록을 재생합니다. 재생을 멈춰도 백엔드의 실험은 계속 진행됩니다.
 
-![실제 패킷과 단계별 해설을 보여주는 실습 화면](docs/images/desktop.png)
+## 패킷 재생 미리 보기
+
+![작은 수 모드에서 Alice의 파란 패킷과 Bob의 보라색 패킷이 반대 방향으로 이동하는 실제 실험 재생](docs/images/packet-replay.gif)
+
+작은 수 모드의 정상 실험을 **1배속**으로 재생한 화면입니다. 파란색은 **Alice → Bob**, 보라색은 **Bob → Alice**입니다. 이동하는 패킷에 **DH 공개값**, **키 확인**, **응용 메시지**가 표시됩니다. 시스템에서 모션 줄이기를 켜면 방향과 종류가 정지 상태로 표시됩니다.
 
 <details>
-<summary>좁은 화면에서 보기</summary>
+<summary>이동 중 화면 캡처 · 데스크톱과 모바일</summary>
 
-<img src="docs/images/mobile.png" width="320" alt="작은 화면에 맞춰 배치된 프로토콜 실습 화면">
+![Alice의 DH 공개값 패킷이 경로 중간을 이동하는 데스크톱 실습 화면](docs/images/desktop.png)
+
+<img src="docs/images/mobile.png" width="320" alt="Alice의 DH 공개값 패킷이 이동 중이며 최근 송신 방향이 표시된 모바일 실습 화면">
 
 </details>
 
@@ -28,7 +34,7 @@ Alice와 Bob은 **서로 다른 Python 프로세스**에서 암호 연산을 수
 
 ## Windows에서 바로 시작
 
-1. [v0.1.0 Releases](https://github.com/leekmny/crypto-dh-lab/releases/tag/v0.1.0)에서 `CryptoDHLab-Windows-x64.zip`을 받습니다.
+1. [v0.1.1 Releases](https://github.com/leekmny/crypto-dh-lab/releases/tag/v0.1.1)에서 `CryptoDHLab-Windows-x64.zip`을 받습니다.
 2. ZIP의 **폴더 전체를 압축 해제**합니다.
 3. 압축을 푼 폴더 안의 `CryptoDHLab.exe`를 더블클릭합니다. 작은 실행 창과 기본 브라우저가 열립니다.
 4. 브라우저에서 계산 모드와 시나리오를 고른 뒤 **실험 시작**을 누릅니다.

diff --git a/docs/VERIFICATION.md b/docs/VERIFICATION.md
@@ -2,6 +2,12 @@
 
 이 프로젝트는 암호 통신을 관찰하기 위한 교육용 구현입니다. 자동 테스트는 구현의 기대 동작을 확인하며 프로토콜의 공식 보안 증명을 제공하지 않습니다.
 
+## v0.1.1 패킷 재생 검증
+
+Windows 11 x64 한 대의 Chrome에서 정상 실험을 실제로 실행했습니다. 데스크톱 1440px와 모바일 390px에서 이동 중인 패킷을 캡처했고, 양방향 재생을 GIF로 기록했습니다. 모션 줄이기 설정에서는 패킷이 경로 중앙에 고정되는 것을 확인했습니다.
+
+패킷 방향, 재생 속도와 이징, 초기화, 모션 줄이기는 Node.js 22.7 이상에서 `node --test tests/packet-animation.test.mjs`로 검증할 수 있습니다.
+
 ## 로컬 검증 기록
 
 2026-11-18, Windows 11 x64 / Python 3.14.8 / cryptography 49.0.0 / pytest 9.2.0 환경에서 확인했습니다.
